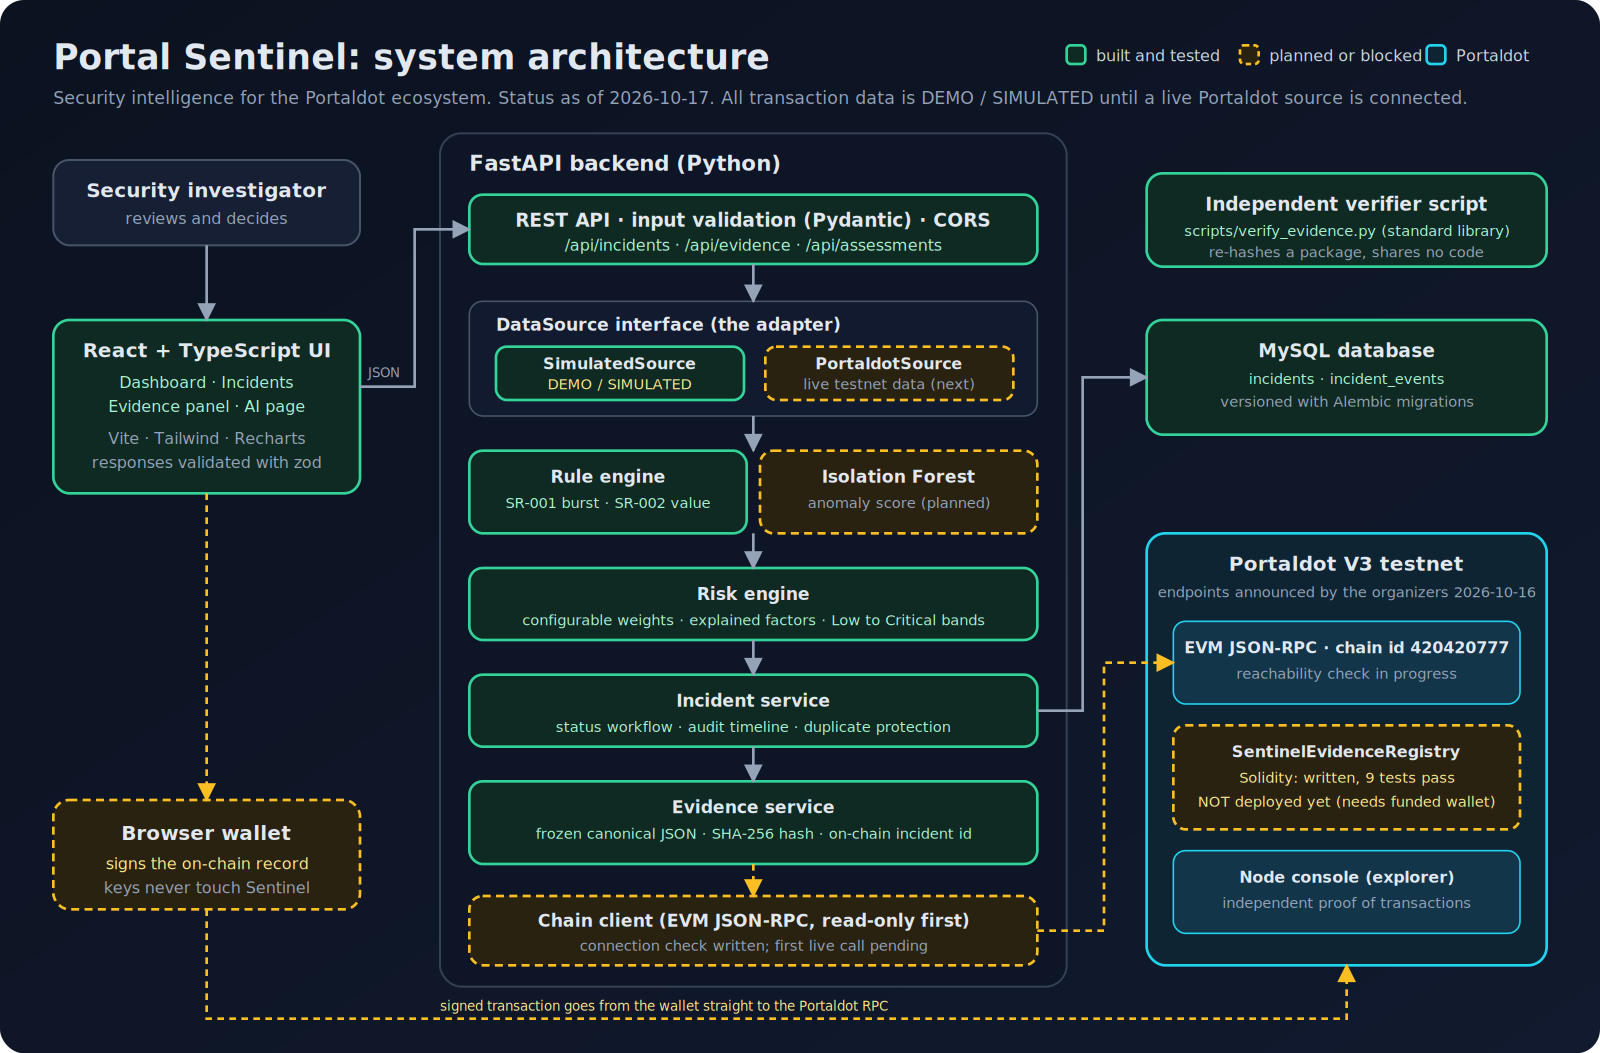
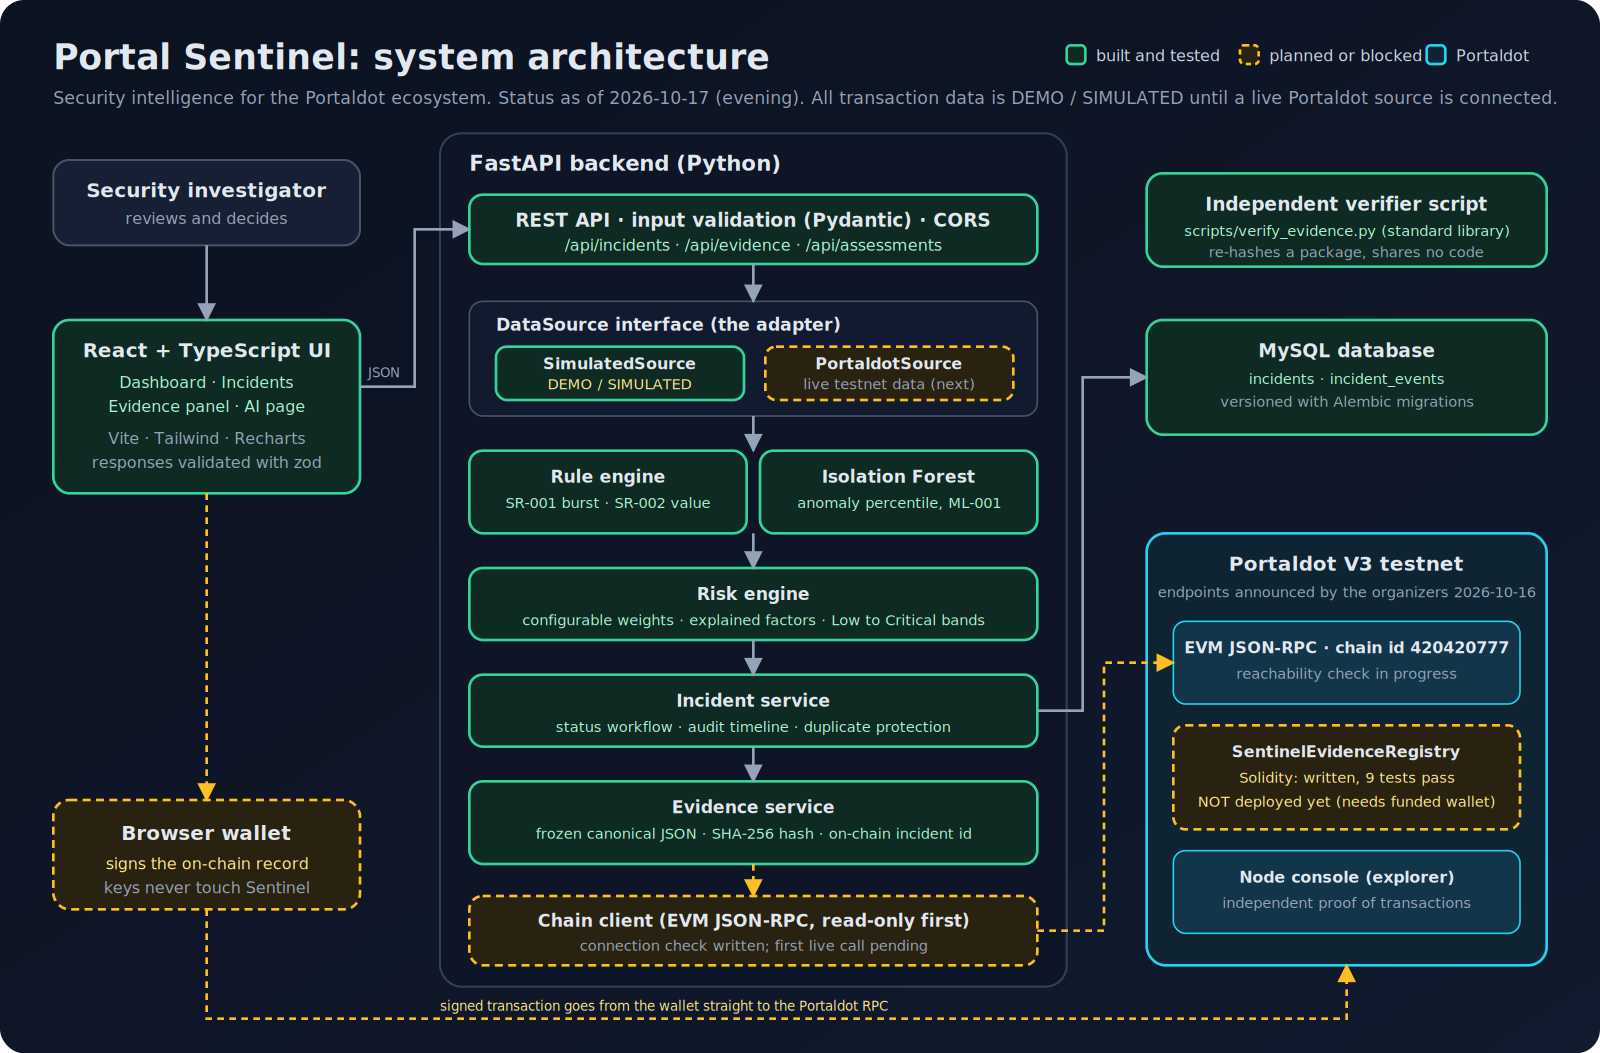
docs: add ai model document and update architecture and facts

Changed region(s): [[0.4375, 0.0608, 0.9688, 0.1216], [0.4688, 0.4255, 0.6562, 0.5166]]

diff --git a/docs/PORTALDOT_VERIFIED_FACTS.md b/docs/PORTALDOT_VERIFIED_FACTS.md
@@ -221,10 +221,74 @@ Source: (a) an official Discord announcement titled "PortaldotV3 Testnet: Update
 |---|---|---|
 | Oct 16 | Claude fetched the RPC URL with a plain GET | HTTP 405 (expected for a JSON-RPC server that wants POST). The host resolves and a server answers. This is weak evidence only. |
 | Oct 16 | Claude fetched the node console URL | Page loads, titled "Portaldot Node Console" (JavaScript app, content not read) |
-| (pending) | `python scripts/check_chain.py https://test-evm-rpc-v3.portaldot.dev 420420777` run by the team member | TO BE RECORDED |
+| Oct 17 | `check_chain.py` run by the team member against the EVM RPC | With Python's default User-Agent: HTTP 403, `Server: cloudflare`, body `error code: 1010`. With a descriptive User-Agent: chain id **420420777 (matches)**, latest block **75331**. **TESTED.** |
 
 ### Still UNKNOWN (ask the team)
 - How to deploy a Solidity contract with a funded native `5...` account: through MetaMask (which address receives funds, and how does the EVM `0x` address map to it?) or through extrinsics in the node console?
 - Whether plain EVM bytecode deploys directly, or contracts must be compiled for another target.
 - Whether the EVM side has a transaction explorer, or only the node console.
 - The native token ticker and decimals on V3 (the earlier guide said tPOTv3 with 14 decimals; unconfirmed).
+
+
+---
+
+## J. Consequence of the 403: the public RPC sits behind Cloudflare (tested Oct 17)
+
+- FACT (tested): the EVM RPC rejects Python's default User-Agent (Cloudflare error 1010) and accepts a descriptive one.
+- Our own clients (backend chain client, scripts) must send an honest descriptive User-Agent. We do not impersonate browsers.
+- Other tools (Hardhat, ethers, viem, web3.py) may be rejected the same way. If one is, set a custom User-Agent header in that tool.
+- Status: TESTED for `check_chain.py`. Not yet tested for any other client.
+
+## K. Deployment questions: still open (Discord, Oct 17)
+
+Source: reply from the Portaldot community team relayed by the team member. Status: **the team does not know yet and has escalated to the core developers.**
+
+Open questions (do not assume any answer):
+1. Account mapping and gas: how does an `0x` account (MetaMask/Hardhat) use tPOT held by a native `5...` account?
+2. Deployment method: directly through the EVM JSON-RPC, or through Substrate extrinsics?
+3. Compilation target: plain EVM bytecode, or something specific to `revive`?
+
+The reply also says "the V3 technical documentation describes Solidity support through `revive`". We have not seen that document.
+
+## L. What public pallet-revive documentation says in general (NOT Portaldot-specific; UNVERIFIED for Portaldot V3)
+
+Sources: Polymesh developer docs, Polkadot developer docs, the revive compiler book, an OpenGuild tutorial. These describe other chains that use the same pallet. Portaldot V3 may differ.
+
+- A separate proxy (`eth-rpc`) translates Ethereum JSON-RPC into node calls, which is what lets MetaMask and Hardhat talk to such chains.
+- Account mapping exists in general: an account should call `map_account` before receiving tokens at its Ethereum-style address. Until it does, tokens sent to that address are credited to a separate 0xEE-padded "fallback" account.
+- One doc says plain `solc` EVM bytecode runs with full EVM compatibility on that chain; the Polkadot docs say Solidity is compiled with `resolc` into PolkaVM bytecode (`@parity/resolc`, `hardhat-polkadot`). Different networks and versions disagree, which is exactly open question 3.
+- Deployment and funding can go through Substrate extrinsics (`revive.instantiateWithCode`, `revive.call`) as well as through Ethereum tooling.
+
+What this changes for us: nothing is decided. Questions 1 to 3 can partly be answered by looking at the node console (does a `revive` pallet exist, which extrinsics does it have, what are the token decimals) and by a test deployment once funds arrive.
+
+---
+
+## M. Observations from the official node console (screenshots by the team member, Oct 17, about 20:20 Lagos time)
+
+Source: https://node-console.portaldot.dev, viewed in a browser. Source type: official explorer UI, seen directly by the team member (Claude saw the screenshots, not the live site). Status: **VERIFIED-OBSERVED** for what the screens show.
+
+| Item | What the console showed |
+|---|---|
+| Network label | "PortaldotV3 Live" |
+| Runtime | portaldot-v3/3001; node v3.0.0; chain type substrate |
+| Token | unit POT, 14 decimals, address prefix 42 (matches the older v1 docs) |
+| Genesis hash | 0x6e7f1f24628d2fa3a1ac81a8b45157c63b1037fee4123a7664aae2c55cdbbc36 |
+| Height | best 677,575, finalized 677,573 (finality lag 2 blocks at that moment); another view showed 677,623 a few minutes later |
+| Block time | 6.000 s average |
+| Issuance | total 938.5536 MPOT, inactive 17.8709 MPOT (M is the SI prefix for million) |
+| Block authors | In the 9 blocks shown, 8 were authored by 5F4ZvJJ8R3Q... and 1 by 5Gri5uKAod... (a very small sample) |
+| Activity | One `balances.Transfer` event in roughly 50 seconds. The chain looks quiet. |
+| Extrinsics | A `revive` pallet exists, including `batchMapAccounts(accounts)` ("Map many accounts and make the TX free if at least 90% were unmapped or held deposits") |
+| Accounts | The console had no accounts configured for the team member ("No accounts are available for selection") |
+
+### What this settles
+- The runtime contains pallet-revive. This is consistent with Solidity support through `revive`, as the organizers said. It does not yet tell us the compile target or deployment route (open questions in section K).
+- Block time is 6 s, so our collector should poll about every 6 s, not faster.
+- The chain is quiet, so real activity for anomaly detection will be scarce. We will need to generate our own labelled test activity once funded.
+
+### OPEN: is the console showing the testnet?
+- The console says "PortaldotV3 Live" at block about 677,600.
+- Earlier today the testnet EVM RPC reported latest block 75331. At 6 s per block, 677,600 blocks is about 47 days and 75,331 blocks is about 5 days, so a 600,000-block gap cannot be explained by time passing.
+- Possible explanations: the console is connected to a different V3 network than the testnet RPC; or the EVM proxy numbers blocks differently. UNKNOWN which.
+- How to settle it: run `python scripts/inspect_chain.py`. It prints the EVM view of block 0, the Substrate genesis hash from `https://test-node-v3.portaldot.dev` (if that answers over HTTPS) and warns when heights differ greatly. Compare the genesis hash with the console's value above. Also check the console's network selector (top left) for a testnet entry.
+- Until this is settled, do not assume transactions sent through the EVM RPC will appear in the console.

diff --git a/docs/AI_MODEL.md b/docs/AI_MODEL.md
@@ -1,0 +1,55 @@
+# AI model: Isolation Forest anomaly signal (ML-001)
+
+Status as of 2026-10-17. All results so far use **simulated** data. Nothing here has been validated on real Portaldot activity.
+
+## What it is for
+
+Rules catch patterns we thought of in advance (a burst, a large transfer). The model adds a second opinion that does not
+depend on a hand-picked threshold: it asks whether an account's latest hour looks unusual compared with everything it has
+learned, measured against that account's own normal. It is one signal among several. It never decides alone.
+
+## How it works
+
+1. **Describe each hour of each account with four features:** transactions per hour, total value per hour, distinct
+   counterparties, and the share of failed transactions. Quiet hours count as zeros.
+2. **Measure each hour against the account's own average.** Counts, values and counterparties use `log2((x+1)/(mean+1))`
+   (+1 means double); failure rate uses a simple difference. A busy account is only unusual if it is busier than it normally is,
+   so one model serves very different accounts. This fixes the problem seen in the early experiment, where a model trained on
+   raw features flagged a quiet account just for being unlike the crowd.
+3. **Train an Isolation Forest** (200 trees, fixed random seed) on those deviations from the last 7 days.
+4. **Score the current hour** and convert the score to a **percentile** against the training scores: "more unusual than 99.7%
+   of the past account-hours the model learned from."
+5. **Report a finding only if all of these hold:** percentile at least 0.99, the account made at least 5 transactions in the
+   window, and at least one feature really jumped (2x its usual level, or failure rate up by 0.2).
+6. **Explain it:** the finding lists the largest shifts as "N times the usual" plus the evidence numbers.
+   The finding's strength runs from 60 (just over the bar) to 100.
+
+The model is retrained on every run and nothing is stored, so there is no model file to tamper with or go stale.
+
+## Settings
+
+| Setting | Value | Why |
+|---|---|---|
+| Minimum history | 24 hours | Less than this and the model stays silent and says why |
+| Minimum training examples | 200 | Too few examples make percentiles meaningless |
+| Trigger percentile | 0.99 | Flags roughly the top 1% of what it has seen |
+| Minimum window transactions | 5 | Ignore near-silent accounts |
+| Minimum jump | 2x usual, or +0.2 failure rate | A statistical oddity must also be a real change |
+| Trees / seed | 200 / 42 | Deterministic, repeatable results |
+| Risk weight | 0.6 (rules: 0.85 and 0.75) | The model is trusted a little less than the explicit rules |
+
+## Evidence so far, and its limits
+
+- On simulated data (8 accounts, 7 days, one injected burst) the burst account was flagged on all 8 random seeds tried and no
+  other account was flagged.
+- Automated tests cover feature construction, flagging, silence on normal accounts, silence with too little history,
+  determinism, ignoring near-silent accounts, and that the percentile threshold is really applied. Deliberately breaking the
+  code makes the relevant tests fail.
+- **This is a weak test of accuracy.** The simulated accounts are stable and the burst is obvious. Real activity is messier. The
+  thresholds are starting points and have not been tuned on real data, and the false-positive rate on a real chain is unknown.
+- Percentiles are relative to the data seen in the last week. A quiet network makes "unusual" easier to reach, and a network that
+  is always chaotic makes it harder. A testnet with little activity may not provide a useful baseline at all.
+- It only detects deviation from an account's own past. An account that is malicious from its first transaction has no past to
+  deviate from. The burst rule covers brand-new accounts with low confidence.
+- **An anomaly is not proof of malicious behaviour.** Wording throughout the product says "anomalous" and "requires
+  investigation", and a human decides.

diff --git a/docs/DEMO_SCRIPT.md b/docs/DEMO_SCRIPT.md
@@ -20,8 +20,9 @@ is deployed and a real transaction exists.
 | 0:00 | Landing page, then dashboard | "Blockchains show you activity, but not what deserves your attention. Portal Sentinel is a security intelligence layer for the Portaldot ecosystem: it explains what is unusual, how risky it is, and lets you prove what you found." |
 | 0:20 | Click **Run detection**. Point at the "DEMO / SIMULATED" badges | "Right now I am running on simulated transactions, labelled on every screen, because I am building against the Portaldot V3 testnet that opened this week. The detection pipeline sits behind an adapter, so live data plugs in without changing the rules." |
 | 0:45 | Open the critical incident | "Sentinel flagged one account as critical, risk 96. Each account is compared with its own history, so a busy account is not flagged just for being busy." |
-| 1:05 | Factor bars and the rule evidence panels | "Here is why. [Read the real numbers from the screen: in my test runs transaction frequency was roughly 36 times its usual rate and the largest transfer roughly 50 times its normal range.] Every factor shows its share of the score and the numbers behind it. This is anomalous behaviour that needs investigation. It is not proof of anything malicious." |
-| 1:30 | Press **Mark investigating**; show the timeline | "An investigator takes the incident. The server only allows legal status changes, and every step is recorded in an audit timeline." |
+| 1:05 | Factor bars and the rule evidence panels | "Here is why. [Read the real numbers from the screen: in my test runs transaction frequency was roughly 36 times its usual rate and the largest transfer roughly 50 times its normal range.] Every factor, including an Isolation Forest anomaly model, shows its share of the score and the numbers behind it. This is anomalous behaviour that needs investigation. It is not proof of anything malicious." |
+| 1:20 | Point at the line under the risk gauge, then open the **AI Intelligence** page briefly | "The anomaly model says this hour is more unusual than almost everything it learned from, and the page shows which features shifted. The model finds candidates; the numbers explain them." |
+| 1:35 | Press **Mark investigating**; show the timeline | "An investigator takes the incident. The server only allows legal status changes, and every step is recorded in an audit timeline." |
 | 1:50 | Press **Prepare evidence package**; **Show package** | "Now the part I care most about. Sentinel freezes the facts into a canonical record, with a random nonce, and computes a SHA-256 hash. Later status changes cannot alter it." |
 | 2:10 | **Download JSON**; in the terminal run `python scripts\verify_evidence.py <file> <hash>` | "Anyone can verify it with a standalone script that shares no code with our backend." Expect **MATCH**. |
 | 2:25 | Edit one number in the JSON, re-run | "Change a single number and verification fails." Expect **MISMATCH**. |

diff --git a/README.md b/README.md
@@ -10,13 +10,14 @@ Monitor. Detect. Investigate. Verify.
 
 ## What exists so far
 - Rule engine (transaction burst, value anomaly) with per-account baselines and explained evidence
+- Isolation Forest anomaly model (ML-001) that compares each hour with the account's own normal and explains the shift (`docs/AI_MODEL.md`)
 - Risk engine with configurable weights and risk bands
 - Incident workflow (status transitions, audit timeline) stored in MySQL/MariaDB
 - Evidence packages: frozen, canonical JSON per incident with a SHA-256 hash, plus a standalone verifier (`scripts/verify_evidence.py`, standard library only)
 - React dashboard, incident list and detail pages talking to the API
 - Read-only chain connectivity check script
 
-Not built yet: live Portaldot data, Isolation Forest model, wallet, on-chain evidence contract, authentication.
+Not built yet: live Portaldot data ingestion, wallet, deployment of the evidence contract, authentication.
 
 ## Run the backend
 ```powershell
@@ -58,13 +59,14 @@ Full description: `docs/ARCHITECTURE.md`. The evidence flow diagram is `docs/evi
 
 ## Documentation
 - `docs/ARCHITECTURE.md` components, design decisions, security posture
+- `docs/AI_MODEL.md` how the anomaly model works and its limits
 - `docs/DEMO_SCRIPT.md` the 3-minute demo script
 - `docs/HACKATHON_SPEC.md` competition rules and dates
 - `docs/PORTALDOT_VERIFIED_FACTS.md` what we have verified about Portaldot, and how
 - `docs/PORTAL_SENTINEL_ROADMAP.md` plan and risks
 
 ## Third-party software
-FastAPI, Uvicorn, Pydantic, pydantic-settings, SQLAlchemy, PyMySQL, cryptography, Alembic (backend);
+FastAPI, Uvicorn, Pydantic, pydantic-settings, SQLAlchemy, PyMySQL, cryptography, Alembic, scikit-learn with NumPy and SciPy (backend);
 React, Vite, Tailwind CSS, React Router, Recharts, Framer Motion, Lucide, Zod (frontend).
 
 ## Verify an evidence hash yourself
@@ -73,3 +75,10 @@ On an incident page press "Prepare evidence package", then "Download JSON", then
 python scripts\verify_evidence.py INC-00001-evidence.json 0xTHE_HASH_SHOWN_IN_THE_UI
 ```
 It prints `MATCH` when the recomputed hash equals the one shown (or the one anchored on-chain later).
+
+## Inspect the Portaldot testnet (read-only)
+```powershell
+python scripts\check_chain.py https://test-evm-rpc-v3.portaldot.dev 420420777
+python scripts\inspect_chain.py
+```
+Both send only read requests, with a descriptive User-Agent (the public RPC rejects Python's default one).

diff --git a/docs/ARCHITECTURE.md b/docs/ARCHITECTURE.md
@@ -19,7 +19,7 @@ Status as of 2026-10-17. All transaction data is **DEMO / SIMULATED** until a li
 | SimulatedSource | Deterministic generator, labelled DEMO / SIMULATED on every record (`data_origin`). | Built |
 | PortaldotSource | Reads live testnet data through the same interface. | Planned (endpoints now announced) |
 | Rule engine | SR-001 Transaction Burst and SR-002 Value Anomaly, each compared with the account's own baseline. | Built |
-| Isolation Forest | Unsupervised anomaly score as a third signal. | Planned |
+| Isolation Forest (ML-001) | Unsupervised anomaly signal. Each hour is compared with its own account's normal; the score becomes a percentile with explained feature shifts. See `AI_MODEL.md`. | Built |
 | Risk engine | Noisy-OR combination of weighted findings, Low to Critical bands, explained factors. | Built |
 | Incident service | Status workflow with legal transitions, audit timeline, duplicate protection. | Built |
 | Evidence service | Frozen canonical JSON, SHA-256 hash, on-chain incident id. | Built |
@@ -54,7 +54,7 @@ Not yet implemented, and stated plainly:
 - **No authentication** on the API. Acceptable on localhost only; required before any public deployment.
 - **One owner key** controls recording on the contract. A stolen key could record false evidence but could never alter or
   delete existing records.
-- Rule thresholds are reasonable starting points, not tuned on real network data.
+- Rule and model thresholds are reasonable starting points, not tuned on real network data.
 - The contract has not run on Portaldot. Whether plain EVM bytecode deploys directly there is unconfirmed.
 
 ## What a record proves
